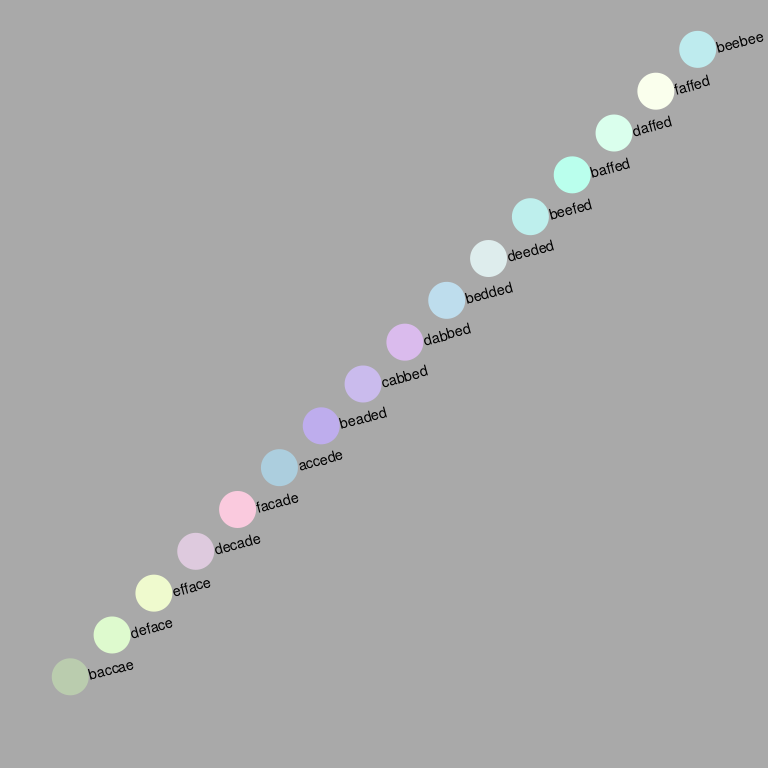
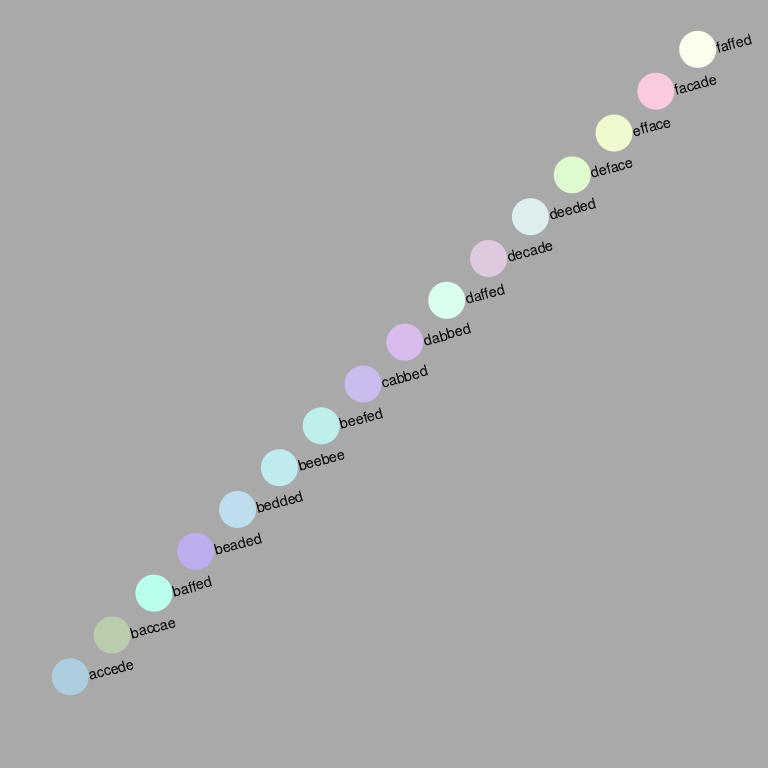
sort for the plot

diff --git a/README.md b/README.md
@@ -25,6 +25,8 @@ words, it’s extremely interesting and important.
 library(hexwords)
 ## basic example code
 op <- par(mar = rep(0, 4), bg = "darkgrey")
+## we don't sort in the package data object but why not here
+english_hex <- sort(english_hex)
 plot(seq_along(english_hex), col = sprintf("#%s", english_hex), pch = 19, cex = 5, asp = 1, ylim = c(-0.2, length(english_hex) + 0.2), xlim = c(0, length(english_hex)  + 1), xlab = "", ylab = "", axes = F)
 text(seq_along(english_hex), lab = english_hex, srt = 15, cex = 0.9, pos = 4, offset = 1)
 ```
